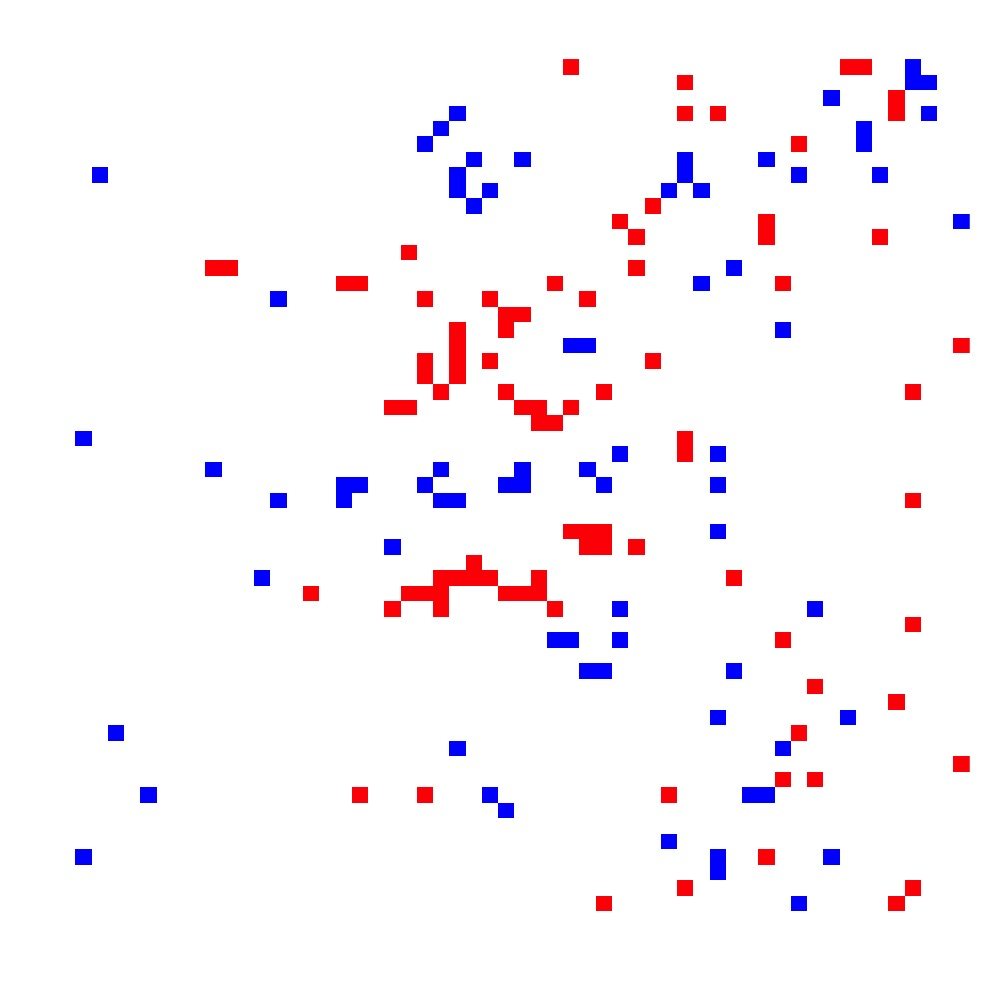
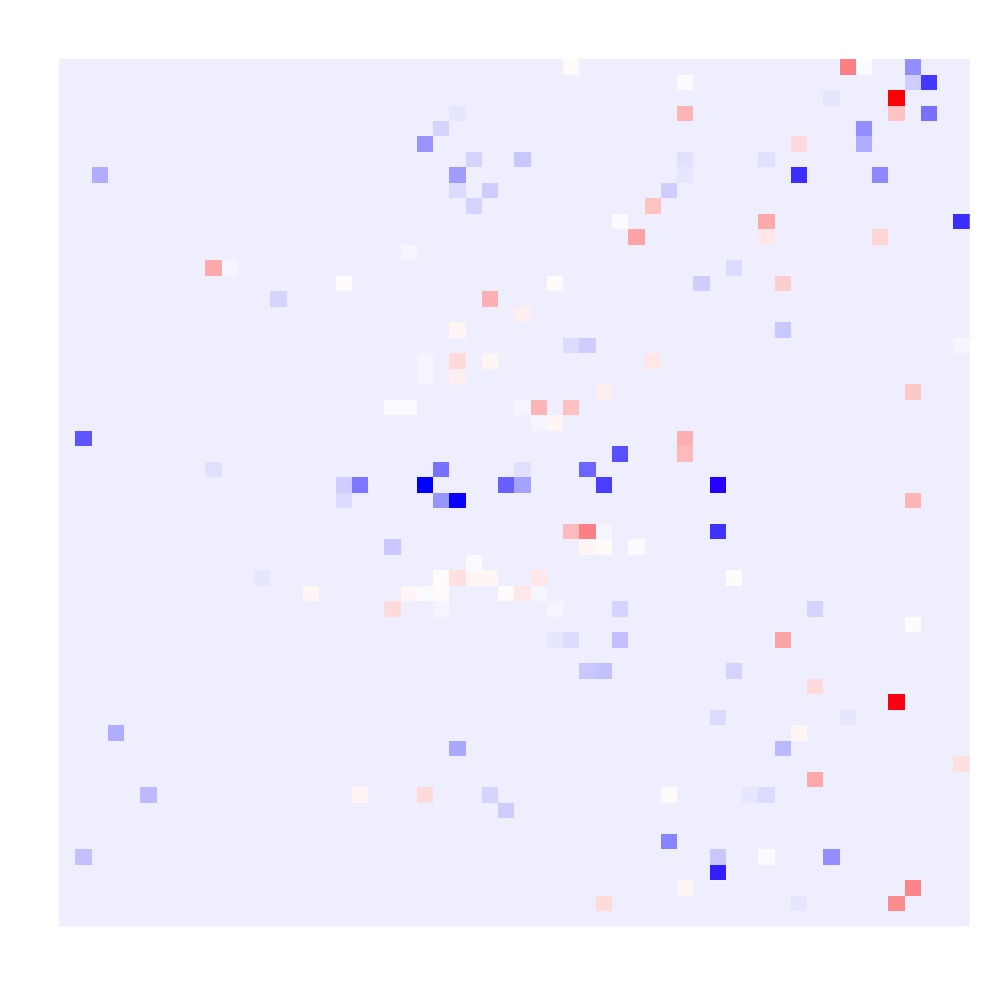
lasso feature better

diff --git a/README.md b/README.md
@@ -311,7 +311,7 @@ pred_test  0  1
 
 经过 LASSO 回归挑选的重要变量构成的特征图：<a id="d1"></a>
 
-- 根据系数绘制特征图 $56 \times 56$ 等比例放大后，红色代表系数为正，蓝色代表系数为负，白色代表未被选中
+- 根据系数绘制特征图 $56 \times 56$ 等比例放大后，红色代表系数为正，蓝色代表系数为负
 
 ![LASSO Feature Figure](Features/lasso_features.jpg)
 
